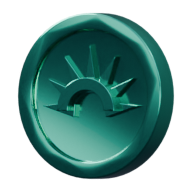
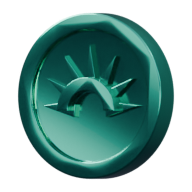
Take the polygon off the token's inner lip
Two edges, two different treatments. The disc's outer edge gets a real
six-segment chamfer and reads perfectly round; the rim's INNER lip had
only the shared two-segment bevel, which is one flat facet per side of
the ring - and a 0.94-metallic surface returns a separate highlight off
every facet, so the inner edge showed the polygon the outer one hides. It
never appears in solid viewport shading, which is matte and has no
reflection to break up.

Both fixed: the bevel gets six segments too, at the same hairline width
because width is what melts a struck device, and the disc goes to 128
sides. This is the one piece in the set seen face on, so both of its
circles are full circles rather than the ellipses the board's coins show.

diff --git a/tools/blender/render_items.py b/tools/blender/render_items.py
@@ -1687,10 +1687,13 @@ def build_event_token():
     # a 0.17 disc foreshortens into nothing, and the device is the object.
     CROWN_UP = math.radians(90)
     CROWN_DROP_X, CROWN_DROP_Y = 0.0, -0.030
-    # 64 sides. The credit coins are seen from above where the outline is
-    # an ellipse and 24 is plenty; this one is FACE ON, so its outline is a
-    # full circle and the polygon shows.
-    body = coin(radius, thickness, slot=False, sides=64)
+    # 128 sides. The credit coins are seen from above where the outline is
+    # an ellipse and 24 is plenty; this one is FACE ON, so BOTH its circles
+    # are full ones - the outer silhouette and the rim's inner lip - and a
+    # polished metal returns a separate highlight off every facet. 64 still
+    # showed the polygon on the inner lip, where the chamfer is a hairline
+    # and there is nothing to break the reflection up.
+    body = coin(radius, thickness, slot=False, sides=128)
 
     # THE RIM'S CHAMFER IS THE DISC'S ALONE, applied before anything is
     # joined. The shared two-segment bevel is one flat facet, and
@@ -1813,13 +1816,17 @@ def build_event_token():
     finish(token, "event-token", material, bevel=0.0015,
            smooth_angle=math.radians(12))
 
-    # THE RIM GETS A REAL CHAMFER. The shared two-segment bevel is a single
-    # flat facet, and auto-smoothing that into a 64-sided wall leaves the
-    # normals stepping unevenly round the edge - which is the waviness on the
-    # outer ring. The silhouette was never the problem: it measures round to
-    # within the bevel's own width. Six segments make the chamfer an actual
-    # curve, so it carries one clean highlight the whole way round the way a
-    # struck coin's edge does.
+    # SEGMENTS, not width. The disc's outer edge gets its own six-segment
+    # chamfer above and reads perfectly round; the rim's INNER lip had only
+    # the shared two-segment bevel, which is a single flat facet per side of
+    # a 64-sided ring - and on a 0.94-metallic surface each of those facets
+    # returns its own highlight, so the inner edge showed the polygon the
+    # outer one hides. It does not show in solid viewport shading, which is
+    # matte and has no reflection to break up.
+    #
+    # The width stays a hairline: width is what melts a struck device, and
+    # the crown's rays are only 0.014 thick.
+    token.modifiers["Bevel"].segments = 6
     return {1: token}
 
 
